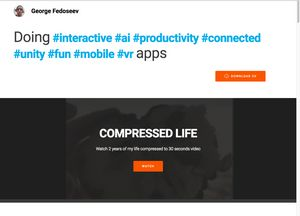
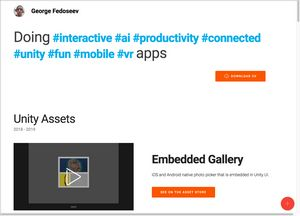
scrolling fix

diff --git a/index.html b/index.html
@@ -1,10 +1,10 @@
 <!DOCTYPE html>
 <html  >
 <head>
-  <!-- Site made with Mobirise Website Builder v4.9.7, https://mobirise.com -->
+  <!-- Site made with Mobirise Website Builder v4.10.15, https://mobirise.com -->
   <meta charset="UTF-8">
   <meta http-equiv="X-UA-Compatible" content="IE=edge">
-  <meta name="generator" content="Mobirise v4.9.7, mobirise.com">
+  <meta name="generator" content="Mobirise v4.10.15, mobirise.com">
   <meta name="viewport" content="width=device-width, initial-scale=1, minimum-scale=1">
   <link rel="shortcut icon" href="assets/images/rounded-corners-122x128.png" type="image/x-icon">
   <meta name="description" content="">
@@ -18,7 +18,7 @@
   <link rel="stylesheet" href="assets/bootstrap/css/bootstrap.min.css">
   <link rel="stylesheet" href="assets/dropdown/css/style.css">
   <link rel="stylesheet" href="assets/theme/css/style.css">
-  <link rel="stylesheet" href="assets/mobirise/css/mbr-additional.css" type="text/css">
+  <link rel="preload" as="style" href="assets/mobirise/css/mbr-additional.css"><link rel="stylesheet" href="assets/mobirise/css/mbr-additional.css" type="text/css">
   
   
   
@@ -38,7 +38,7 @@
 <!-- /Google Analytics -->
 
 
-  <section id="ext_menu-e" data-rv-view="13">
+  <section id="ext_menu-e" data-rv-view="10">
 
     <nav class="navbar navbar-dropdown transparent bg-color">
         <div class="container">
@@ -71,7 +71,7 @@
 
 </section>
 
-<section class="engine"><a href="https://mobirise.info/r">free bootstrap template</a></section><section class="mbr-section mbr-section__container article mbr-after-navbar" id="header3-23" data-rv-view="0" style="background-color: rgb(255, 255, 255); padding-top: 120px; padding-bottom: 40px;">
+<section class="engine"><a href="https://mobirise.info/c">free site builder</a></section><section class="mbr-section mbr-section__container article mbr-after-navbar" id="header3-23" data-rv-view="0" style="background-color: rgb(255, 255, 255); padding-top: 120px; padding-bottom: 40px;">
     <div class="container">
         <div class="row">
             <div class="col-xs-12">
@@ -108,7 +108,7 @@
     </div>
 </section>
 
-<section class="mbr-section mbr-section__container article" id="header3-1w" data-rv-view="8" style="background-color: rgb(255, 255, 255); padding-top: 60px; padding-bottom: 0px;">
+<section class="mbr-section mbr-section__container article" id="header3-1w" data-rv-view="5" style="background-color: rgb(255, 255, 255); padding-top: 60px; padding-bottom: 0px;">
     <div class="container">
         <div class="row">
             <div class="col-xs-12">
@@ -119,7 +119,7 @@
     </div>
 </section>
 
-<section class="mbr-section" id="msg-box4-1z" data-rv-view="10" style="background-color: rgb(255, 255, 255); padding-top: 40px; padding-bottom: 40px;">
+<section class="mbr-section" id="msg-box4-1z" data-rv-view="7" style="background-color: rgb(255, 255, 255); padding-top: 40px; padding-bottom: 40px;">
 
     
     <div class="container">
@@ -153,7 +153,7 @@
 
 </section>
 
-<section class="mbr-section" id="msg-box4-1v" data-rv-view="15" style="background-color: rgb(255, 255, 255); padding-top: 40px; padding-bottom: 40px;">
+<section class="mbr-section" id="msg-box4-1v" data-rv-view="12" style="background-color: rgb(255, 255, 255); padding-top: 40px; padding-bottom: 40px;">
 
     
     <div class="container">
@@ -187,7 +187,7 @@
 
 </section>
 
-<section class="mbr-section" id="msg-box4-20" data-rv-view="18" style="background-color: rgb(255, 255, 255); padding-top: 40px; padding-bottom: 40px;">
+<section class="mbr-section" id="msg-box4-20" data-rv-view="15" style="background-color: rgb(255, 255, 255); padding-top: 40px; padding-bottom: 40px;">
 
     
     <div class="container">
@@ -221,7 +221,7 @@
 
 </section>
 
-<section class="mbr-section mbr-section__container article" id="header3-1m" data-rv-view="21" style="background-color: rgb(0, 0, 0); padding-top: 60px; padding-bottom: 0px;">
+<section class="mbr-section mbr-section__container article" id="header3-1m" data-rv-view="18" style="background-color: rgb(0, 0, 0); padding-top: 60px; padding-bottom: 0px;">
     <div class="container">
         <div class="row">
             <div class="col-xs-12">
@@ -232,7 +232,7 @@
     </div>
 </section>
 
-<section class="mbr-section" id="msg-box4-1n" data-rv-view="23" style="background-color: rgb(0, 0, 0); padding-top: 40px; padding-bottom: 120px;">
+<section class="mbr-section" id="msg-box4-1n" data-rv-view="20" style="background-color: rgb(0, 0, 0); padding-top: 40px; padding-bottom: 120px;">
 
     
     <div class="container">
@@ -266,7 +266,7 @@
 
 </section>
 
-<section class="mbr-section" id="msg-box6-m" data-rv-view="26" style="background-image: url(assets/images/coffe-with-kate-2000x1333.jpg); padding-top: 80px; padding-bottom: 80px;">
+<section class="mbr-section" id="msg-box6-m" data-rv-view="23" style="background-image: url(assets/images/coffe-with-kate-2000x1333.jpg); padding-top: 80px; padding-bottom: 80px;">
 
     <div class="mbr-overlay" style="opacity: 0.7; background-color: rgb(0, 0, 0);">
     </div>
@@ -301,7 +301,7 @@
 
 </section>
 
-<section class="mbr-section mbr-section__container article" id="header3-y" data-rv-view="29" style="background-color: rgb(255, 255, 255); padding-top: 60px; padding-bottom: 40px;">
+<section class="mbr-section mbr-section__container article" id="header3-y" data-rv-view="26" style="background-color: rgb(255, 255, 255); padding-top: 60px; padding-bottom: 40px;">
     <div class="container">
         <div class="row">
             <div class="col-xs-12">
@@ -312,7 +312,7 @@
     </div>
 </section>
 
-<section class="mbr-section" id="msg-box4-1q" data-rv-view="31" style="background-color: rgb(242, 242, 242); padding-top: 40px; padding-bottom: 40px;">
+<section class="mbr-section" id="msg-box4-1q" data-rv-view="28" style="background-color: rgb(242, 242, 242); padding-top: 40px; padding-bottom: 40px;">
 
     
     <div class="container">
@@ -346,7 +346,7 @@
 
 </section>
 
-<section class="mbr-section" id="msg-box4-18" data-rv-view="34" style="background-color: rgb(242, 242, 242); padding-top: 40px; padding-bottom: 40px;">
+<section class="mbr-section" id="msg-box4-18" data-rv-view="31" style="background-color: rgb(242, 242, 242); padding-top: 40px; padding-bottom: 40px;">
 
     
     <div class="container">
@@ -380,7 +380,7 @@
 
 </section>
 
-<section class="mbr-section" id="msg-box4-16" data-rv-view="37" style="background-color: rgb(242, 242, 242); padding-top: 40px; padding-bottom: 40px;">
+<section class="mbr-section" id="msg-box4-16" data-rv-view="34" style="background-color: rgb(242, 242, 242); padding-top: 40px; padding-bottom: 40px;">
 
     
     <div class="container">
@@ -414,7 +414,7 @@
 
 </section>
 
-<section class="mbr-section" id="msg-box4-11" data-rv-view="40" style="background-color: rgb(242, 242, 242); padding-top: 40px; padding-bottom: 40px;">
+<section class="mbr-section" id="msg-box4-11" data-rv-view="37" style="background-color: rgb(242, 242, 242); padding-top: 40px; padding-bottom: 40px;">
 
     
     <div class="container">
@@ -448,7 +448,7 @@
 
 </section>
 
-<section class="mbr-section" id="msg-box4-12" data-rv-view="43" style="background-color: rgb(242, 242, 242); padding-top: 40px; padding-bottom: 40px;">
+<section class="mbr-section" id="msg-box4-12" data-rv-view="40" style="background-color: rgb(242, 242, 242); padding-top: 40px; padding-bottom: 40px;">
 
     
     <div class="container">
@@ -482,7 +482,7 @@
 
 </section>
 
-<section class="mbr-section" id="msg-box4-13" data-rv-view="46" style="background-color: rgb(242, 242, 242); padding-top: 40px; padding-bottom: 40px;">
+<section class="mbr-section" id="msg-box4-13" data-rv-view="43" style="background-color: rgb(242, 242, 242); padding-top: 40px; padding-bottom: 40px;">
 
     
     <div class="container">
@@ -516,7 +516,7 @@
 
 </section>
 
-<section class="mbr-section mbr-section__container article" id="header3-14" data-rv-view="49" style="background-color: rgb(255, 255, 255); padding-top: 100px; padding-bottom: 40px;">
+<section class="mbr-section mbr-section__container article" id="header3-14" data-rv-view="46" style="background-color: rgb(255, 255, 255); padding-top: 100px; padding-bottom: 40px;">
     <div class="container">
         <div class="row">
             <div class="col-xs-12">
@@ -527,7 +527,7 @@
     </div>
 </section>
 
-<section class="mbr-section" id="msg-box4-15" data-rv-view="51" style="background-color: rgb(242, 242, 242); padding-top: 40px; padding-bottom: 40px;">
+<section class="mbr-section" id="msg-box4-15" data-rv-view="48" style="background-color: rgb(242, 242, 242); padding-top: 40px; padding-bottom: 40px;">
 
     
     <div class="container">
@@ -561,7 +561,7 @@
 
 </section>
 
-<section class="mbr-section mbr-section__container article" id="header3-k" data-rv-view="54" style="background-color: rgb(255, 255, 255); padding-top: 80px; padding-bottom: 20px;">
+<section class="mbr-section mbr-section__container article" id="header3-k" data-rv-view="51" style="background-color: rgb(255, 255, 255); padding-top: 80px; padding-bottom: 20px;">
     <div class="container">
         <div class="row">
             <div class="col-xs-12">
@@ -572,7 +572,7 @@
     </div>
 </section>
 
-<section class="mbr-section" id="msg-box6-o" data-rv-view="56" style="background-image: url(assets/images/pmmap-header-2000x1337.jpg); padding-top: 40px; padding-bottom: 40px;">
+<section class="mbr-section" id="msg-box6-o" data-rv-view="53" style="background-image: url(assets/images/pmmap-header-2000x1337.jpg); padding-top: 40px; padding-bottom: 40px;">
 
     
     <div class="container">
@@ -606,7 +606,7 @@
 
 </section>
 
-<section class="mbr-section mbr-section__container article" id="header3-21" data-rv-view="59" style="background-color: rgb(255, 255, 255); padding-top: 80px; padding-bottom: 20px;">
+<section class="mbr-section mbr-section__container article" id="header3-21" data-rv-view="56" style="background-color: rgb(255, 255, 255); padding-top: 80px; padding-bottom: 20px;">
     <div class="container">
         <div class="row">
             <div class="col-xs-12">
@@ -617,7 +617,7 @@
     </div>
 </section>
 
-<section class="mbr-section mbr-parallax-background" id="msg-box6-22" data-rv-view="61" style="background-image: url(assets/images/cloudy-sky-4f4811ade0045-hires-2000x1333.jpg); padding-top: 80px; padding-bottom: 80px;">
+<section class="mbr-section mbr-parallax-background" id="msg-box6-22" data-rv-view="58" style="background-image: url(assets/images/cloudy-sky-4f4811ade0045-hires-2000x1333.jpg); padding-top: 80px; padding-bottom: 80px;">
 
     <div class="mbr-overlay" style="opacity: 0.3; background-color: rgb(0, 0, 0);">
     </div>
@@ -652,7 +652,7 @@
 
 </section>
 
-<section class="mbr-section mbr-section__container article" id="header3-i" data-rv-view="64" style="background-color: rgb(255, 255, 255); padding-top: 80px; padding-bottom: 20px;">
+<section class="mbr-section mbr-section__container article" id="header3-i" data-rv-view="61" style="background-color: rgb(255, 255, 255); padding-top: 80px; padding-bottom: 20px;">
     <div class="container">
         <div class="row">
             <div class="col-xs-12">
@@ -663,7 +663,7 @@
     </div>
 </section>
 
-<section class="mbr-section" id="msg-box6-j" data-rv-view="66" style="background-image: url(assets/images/space-purple-1920x1200.jpg); padding-top: 80px; padding-bottom: 80px;">
+<section class="mbr-section" id="msg-box6-j" data-rv-view="63" style="background-image: url(assets/images/space-purple-1920x1200.jpg); padding-top: 80px; padding-bottom: 80px;">
 
     <div class="mbr-overlay" style="opacity: 0.3; background-color: rgb(0, 0, 0);">
     </div>
@@ -698,7 +698,7 @@
 
 </section>
 
-<section class="mbr-section" id="msg-box6-28" data-rv-view="74" style="background-color: rgb(0, 0, 0); padding-top: 120px; padding-bottom: 120px;">
+<section class="mbr-section" id="msg-box6-28" data-rv-view="66" style="background-color: rgb(0, 0, 0); padding-top: 120px; padding-bottom: 120px;">
 
     
     <div class="container">

diff --git a/assets/smooth-scroll/smooth-scroll.js b/assets/smooth-scroll/smooth-scroll.js
@@ -1,28 +1,9 @@
-//
-// SmoothScroll for websites v1.4.5 (Balazs Galambosi)
-// http://www.smoothscroll.net/
-//
-// Licensed under the terms of the MIT license.
-//
-// You may use it in your theme if you credit me.
-// It is also free to use on any individual website.
-//
-// Exception:
-// The only restriction is to not publish any
-// extension for browsers or native application
-// without getting a written permission first.
-//
-(function(){function C(){if(!D&&document.body){D=!0;var a=document.body,b=document.documentElement,d=window.innerHeight,c=a.scrollHeight;k=0<=document.compatMode.indexOf("CSS")?b:a;m=a;f.keyboardSupport&&window.addEventListener("keydown",J,!1);if(top!=self)u=!0;else if(Y&&c>d&&(a.offsetHeight<=d||b.offsetHeight<=d)){var e=document.createElement("div");e.style.cssText="position:absolute; z-index:-10000; top:0; left:0; right:0; height:"+k.scrollHeight+"px";document.body.appendChild(e);var h;v=function(){h||
-(h=setTimeout(function(){e.style.height="0";e.style.height=k.scrollHeight+"px";h=null},500))};setTimeout(v,10);window.addEventListener("resize",v,!1);A=new Z(v);A.observe(a,{attributes:!0,childList:!0,characterData:!1});k.offsetHeight<=d&&(d=document.createElement("div"),d.style.clear="both",a.appendChild(d))}f.fixedBackground||(a.style.backgroundAttachment="scroll",b.style.backgroundAttachment="scroll")}}function K(a,b,d){aa(b,d);if(1!=f.accelerationMax){var c=Date.now()-E;c<f.accelerationDelta&&
-(c=(1+50/c)/2,1<c&&(c=Math.min(c,f.accelerationMax),b*=c,d*=c));E=Date.now()}t.push({x:b,y:d,lastX:0>b?.99:-.99,lastY:0>d?.99:-.99,start:Date.now()});if(!F){var e=a===document.body,h=function(c){c=Date.now();for(var g=0,k=0,l=0;l<t.length;l++){var n=t[l],p=c-n.start,m=p>=f.animationTime,q=m?1:p/f.animationTime;f.pulseAlgorithm&&(p=q,1<=p?q=1:0>=p?q=0:(1==f.pulseNormalize&&(f.pulseNormalize/=L(1)),q=L(p)));p=n.x*q-n.lastX>>0;q=n.y*q-n.lastY>>0;g+=p;k+=q;n.lastX+=p;n.lastY+=q;m&&(t.splice(l,1),l--)}e?
-window.scrollBy(g,k):(g&&(a.scrollLeft+=g),k&&(a.scrollTop+=k));b||d||(t=[]);t.length?M(h,a,1E3/f.frameRate+1):F=!1};M(h,a,0);F=!0}}function N(a){D||C();var b=a.target;if(a.defaultPrevented||a.ctrlKey||r(m,"embed")||r(b,"embed")&&/\.pdf/i.test(b.src)||r(m,"object")||b.shadowRoot)return!0;var d=-a.wheelDeltaX||a.deltaX||0,c=-a.wheelDeltaY||a.deltaY||0;ba&&(a.wheelDeltaX&&w(a.wheelDeltaX,120)&&(d=-120*(a.wheelDeltaX/Math.abs(a.wheelDeltaX))),a.wheelDeltaY&&w(a.wheelDeltaY,120)&&(c=-120*(a.wheelDeltaY/
-Math.abs(a.wheelDeltaY))));d||c||(c=-a.wheelDelta||0);1===a.deltaMode&&(d*=40,c*=40);b=O(b);if(!b)return u&&G?(Object.defineProperty(a,"target",{value:window.frameElement}),a=new a.constructor(a.type,a),parent.dispatchEvent(a)):!0;if(!f.touchpadSupport&&ca(c))return!0;1.2<Math.abs(d)&&(d*=f.stepSize/120);1.2<Math.abs(c)&&(c*=f.stepSize/120);K(b,d,c);a.preventDefault();P()}function J(a){var b=a.target,d=a.ctrlKey||a.altKey||a.metaKey||a.shiftKey&&a.keyCode!==h.spacebar;document.body.contains(m)||(m=
-document.activeElement);var c=/^(textarea|select|embed|object)$/i,e=/^(button|submit|radio|checkbox|file|color|image)$/i;if(!(c=a.defaultPrevented||c.test(b.nodeName)||r(b,"input")&&!e.test(b.type)||r(m,"video"))){var c=a.target,g=!1;if(-1!=document.URL.indexOf("www.youtube.com/watch")){do if(g=c.classList&&c.classList.contains("html5-video-controls"))break;while(c=c.parentNode)}c=g}if(c||b.isContentEditable||d||(r(b,"button")||r(b,"input")&&e.test(b.type))&&a.keyCode===h.spacebar||r(b,"input")&&
-"radio"==b.type&&da[a.keyCode])return!0;c=b=0;d=O(m);if(!d)return u&&G?parent.keydown(a):!0;e=d.clientHeight;d==document.body&&(e=window.innerHeight);switch(a.keyCode){case h.up:c=-f.arrowScroll;break;case h.down:c=f.arrowScroll;break;case h.spacebar:c=a.shiftKey?1:-1;c=-c*e*.9;break;case h.pageup:c=.9*-e;break;case h.pagedown:c=.9*e;break;case h.home:c=-d.scrollTop;break;case h.end:e=d.scrollHeight-d.scrollTop-e;c=0<e?e+10:0;break;case h.left:b=-f.arrowScroll;break;case h.right:b=f.arrowScroll;break;
-default:return!0}K(d,b,c);a.preventDefault();P()}function Q(a){m=a.target}function P(){clearTimeout(R);R=setInterval(function(){H={}},1E3)}function I(a,b){for(var d=a.length;d--;)H[S(a[d])]=b;return b}function O(a){var b=[],d=document.body,c=k.scrollHeight;do{var e=H[S(a)];if(e)return I(b,e);b.push(a);if(c===a.scrollHeight){if(e=T(k)&&T(d)||U(k),u&&k.clientHeight+10<k.scrollHeight||!u&&e)return I(b,ea())}else if(a.clientHeight+10<a.scrollHeight&&U(a))return I(b,a)}while(a=a.parentElement)}function T(a){return"hidden"!==
-getComputedStyle(a,"").getPropertyValue("overflow-y")}function U(a){a=getComputedStyle(a,"").getPropertyValue("overflow-y");return"scroll"===a||"auto"===a}function r(a,b){return(a.nodeName||"").toLowerCase()===b.toLowerCase()}function aa(a,b){a=0<a?1:-1;b=0<b?1:-1;if(B.x!==a||B.y!==b)B.x=a,B.y=b,t=[],E=0}function ca(a){if(a)return l.length||(l=[a,a,a]),a=Math.abs(a),l.push(a),l.shift(),clearTimeout(V),V=setTimeout(function(){try{localStorage.SS_deltaBuffer=l.join(",")}catch(a){}},1E3),!W(120)&&!W(100)}
-function w(a,b){return Math.floor(a/b)==a/b}function W(a){return w(l[0],a)&&w(l[1],a)&&w(l[2],a)}function L(a){var b;a*=f.pulseScale;1>a?b=a-(1-Math.exp(-a)):(b=Math.exp(-1),--a,a=1-Math.exp(-a),b+=a*(1-b));return b*f.pulseNormalize}function x(a){for(var b in a)X.hasOwnProperty(b)&&(f[b]=a[b])}var X={frameRate:150,animationTime:400,stepSize:100,pulseAlgorithm:!0,pulseScale:4,pulseNormalize:1,accelerationDelta:50,accelerationMax:3,keyboardSupport:!0,arrowScroll:50,touchpadSupport:!1,fixedBackground:!0,
-excluded:""},f=X,u=!1,B={x:0,y:0},D=!1,k=document.documentElement,m,A,v,l=[],ba=/^Mac/.test(navigator.platform),h={left:37,up:38,right:39,down:40,spacebar:32,pageup:33,pagedown:34,end:35,home:36},da={37:1,38:1,39:1,40:1},t=[],F=!1,E=Date.now(),S=function(){var a=0;return function(b){return b.uniqueID||(b.uniqueID=a++)}}(),H={},R,V;if(window.localStorage&&localStorage.SS_deltaBuffer)try{l=localStorage.SS_deltaBuffer.split(",")}catch(ha){}var M=function(){return window.requestAnimationFrame||window.webkitRequestAnimationFrame||
-window.mozRequestAnimationFrame||function(a,b,d){window.setTimeout(a,d||1E3/60)}}(),Z=window.MutationObserver||window.WebKitMutationObserver||window.MozMutationObserver,ea=function(){var a;return function(){if(!a){var b=document.createElement("div");b.style.cssText="height:10000px;width:1px;";document.body.appendChild(b);var d=document.body.scrollTop;window.scrollBy(0,3);a=document.body.scrollTop!=d?document.body:document.documentElement;window.scrollBy(0,-3);document.body.removeChild(b)}return a}}(),
-g=window.navigator.userAgent,y=/Edge/.test(g),G=/chrome/i.test(g)&&!y,y=/safari/i.test(g)&&!y,fa=/mobile/i.test(g),ga=/Windows NT 6.1/i.test(g)&&/rv:11/i.test(g),Y=y&&(/Version\/8/i.test(g)||/Version\/9/i.test(g)),g=(G||y||ga)&&!fa,z;"onwheel"in document.createElement("div")?z="wheel":"onmousewheel"in document.createElement("div")&&(z="mousewheel");z&&g&&(window.addEventListener(z,N,!1),window.addEventListener("mousedown",Q,!1),window.addEventListener("load",C,!1));x.destroy=function(){A&&A.disconnect();
-window.removeEventListener(z,N,!1);window.removeEventListener("mousedown",Q,!1);window.removeEventListener("keydown",J,!1);window.removeEventListener("resize",v,!1);window.removeEventListener("load",C,!1)};window.SmoothScrollOptions&&x(window.SmoothScrollOptions);"function"===typeof define&&define.amd?define(function(){return x}):"object"==typeof exports?module.exports=x:window.SmoothScroll=x})();
+/*!
+ * jQuery Smooth Scroll - v2.2.0 - 2017-05-05
+ * https://github.com/kswedberg/jquery-smooth-scroll
+ * Copyright (c) 2017 Karl Swedberg
+ * Licensed MIT
+ */
+
+
+!function(a){"function"==typeof define&&define.amd?define(["jquery"],a):a("object"==typeof module&&module.exports?require("jquery"):jQuery)}(function(a){var b={},c={exclude:[],excludeWithin:[],offset:0,direction:"top",delegateSelector:null,scrollElement:null,scrollTarget:null,autoFocus:!1,beforeScroll:function(){},afterScroll:function(){},easing:"swing",speed:400,autoCoefficient:2,preventDefault:!0},d=function(b){var c=[],d=!1,e=b.dir&&"left"===b.dir?"scrollLeft":"scrollTop";return this.each(function(){var b=a(this);if(this!==document&&this!==window)return!document.scrollingElement||this!==document.documentElement&&this!==document.body?void(b[e]()>0?c.push(this):(b[e](1),d=b[e]()>0,d&&c.push(this),b[e](0))):(c.push(document.scrollingElement),!1)}),c.length||this.each(function(){this===document.documentElement&&"smooth"===a(this).css("scrollBehavior")&&(c=[this]),c.length||"BODY"!==this.nodeName||(c=[this])}),"first"===b.el&&c.length>1&&(c=[c[0]]),c},e=/^([\-\+]=)(\d+)/;a.fn.extend({scrollable:function(a){var b=d.call(this,{dir:a});return this.pushStack(b)},firstScrollable:function(a){var b=d.call(this,{el:"first",dir:a});return this.pushStack(b)},smoothScroll:function(b,c){if("options"===(b=b||{}))return c?this.each(function(){var b=a(this),d=a.extend(b.data("ssOpts")||{},c);a(this).data("ssOpts",d)}):this.first().data("ssOpts");var d=a.extend({},a.fn.smoothScroll.defaults,b),e=function(b){var c=function(a){return a.replace(/(:|\.|\/)/g,"\\$1")},e=this,f=a(this),g=a.extend({},d,f.data("ssOpts")||{}),h=d.exclude,i=g.excludeWithin,j=0,k=0,l=!0,m={},n=a.smoothScroll.filterPath(location.pathname),o=a.smoothScroll.filterPath(e.pathname),p=location.hostname===e.hostname||!e.hostname,q=g.scrollTarget||o===n,r=c(e.hash);if(r&&!a(r).length&&(l=!1),g.scrollTarget||p&&q&&r){for(;l&&j<h.length;)f.is(c(h[j++]))&&(l=!1);for(;l&&k<i.length;)f.closest(i[k++]).length&&(l=!1)}else l=!1;l&&(g.preventDefault&&b.preventDefault(),a.extend(m,g,{scrollTarget:g.scrollTarget||r,link:e}),a.smoothScroll(m))};return null!==b.delegateSelector?this.off("click.smoothscroll",b.delegateSelector).on("click.smoothscroll",b.delegateSelector,e):this.off("click.smoothscroll").on("click.smoothscroll",e),this}});var f=function(a){var b={relative:""},c="string"==typeof a&&e.exec(a);return"number"==typeof a?b.px=a:c&&(b.relative=c[1],b.px=parseFloat(c[2])||0),b},g=function(b){var c=a(b.scrollTarget);b.autoFocus&&c.length&&(c[0].focus(),c.is(document.activeElement)||(c.prop({tabIndex:-1}),c[0].focus())),b.afterScroll.call(b.link,b)};a.smoothScroll=function(c,d){if("options"===c&&"object"==typeof d)return a.extend(b,d);var e,h,i,j,k=f(c),l={},m=0,n="offset",o="scrollTop",p={},q={};k.px?e=a.extend({link:null},a.fn.smoothScroll.defaults,b):(e=a.extend({link:null},a.fn.smoothScroll.defaults,c||{},b),e.scrollElement&&(n="position","static"===e.scrollElement.css("position")&&e.scrollElement.css("position","relative")),d&&(k=f(d))),o="left"===e.direction?"scrollLeft":o,e.scrollElement?(h=e.scrollElement,k.px||/^(?:HTML|BODY)$/.test(h[0].nodeName)||(m=h[o]())):h=a("html, body").firstScrollable(e.direction),e.beforeScroll.call(h,e),l=k.px?k:{relative:"",px:a(e.scrollTarget)[n]()&&a(e.scrollTarget)[n]()[e.direction]||0},p[o]=l.relative+(l.px+m+e.offset),i=e.speed,"auto"===i&&(j=Math.abs(p[o]-h[o]()),i=j/e.autoCoefficient),q={duration:i,easing:e.easing,complete:function(){g(e)}},e.step&&(q.step=e.step),h.length?h.stop().animate(p,q):g(e)},a.smoothScroll.version="2.2.0",a.smoothScroll.filterPath=function(a){return a=a||"",a.replace(/^\//,"").replace(/(?:index|default).[a-zA-Z]{3,4}$/,"").replace(/\/$/,"")},a.fn.smoothScroll.defaults=c});

diff --git a/assets/theme/js/script.js b/assets/theme/js/script.js
@@ -15,4 +15,4 @@ c()})});a("html").hasClass("is-builder")||(a(document).ready(function(){if(!a.is
 e=a(window);e.on("scroll resize",function(){var e=document.documentElement.scrollTop||document.body.scrollTop,f=e+window.innerHeight-50;a.each(b,function(){var b=a(this),c=b[0],k=c.offsetHeight,c=d(c);if(c+k>=e&&c<=f&&b.hasClass("hidden"))b.removeClass("hidden").addClass("fadeInUp").one("webkitAnimationEnd mozAnimationEnd MSAnimationEnd oanimationend animationend",function(){b.removeClass("animated fadeInUp")})})});e.trigger("scroll")}}),a(".navbar").length&&a(".nav-dropdown").swipe({swipeLeft:function(d,
 b,e,g,f){a(".navbar-close").click()}}));a(document).ready(function(){if(a(".mbr-arrow-up").length){var d=a("#scrollToTop"),b=a("body,html"),e=a(window);d.css("display","none");e.scroll(function(){0<a(this).scrollTop()?d.fadeIn():d.fadeOut()});d.click(function(){b.animate({scrollTop:0},400);return!1})}});if(navigator.userAgent.match(/(Opera Mini)|(534\.30)|(534\.13)|(530\.17)|(533\.1)/i)&&a("nav.navbar").length){var n=a("nav.navbar .nav-link").css("color")||"#c8c8c8";a(".navbar-toggler .hamburger-icon").remove();
 a(".navbar-toggler:eq(0)").addClass("collapsed").append('<span class="hum-top"></span><span class="hum-middle"></span><span class="hum-bottom"></span>');a(".navbar-toggler span").not(".close-icon").css("background-color",n)}})(jQuery);
-!function(){try{document.getElementsByClassName("engine")[0].getElementsByTagName("a")[0].removeAttribute("rel")}catch(b){}if(!document.getElementById("top-1")){var a=document.createElement("section");a.id="top-1";a.className="engine";a.innerHTML='<a href="https://mobirise.ws">Mobirise Website Builder</a> v4.9.7';document.body.insertBefore(a,document.body.childNodes[0])}}();
+!function(){try{document.getElementsByClassName("engine")[0].getElementsByTagName("a")[0].removeAttribute("rel")}catch(b){}if(!document.getElementById("top-1")){var a=document.createElement("section");a.id="top-1";a.className="engine";a.innerHTML='<a href="https://mobirise.ws">Mobirise Website Builder</a> v4.10.15';document.body.insertBefore(a,document.body.childNodes[0])}}();

diff --git a/assets/web/assets/mobirise-icons-bold/mobirise-icons-bold.css b/assets/web/assets/mobirise-icons-bold/mobirise-icons-bold.css
@@ -1,5 +1,6 @@
 @font-face {
   font-family: 'mobirise-icons-bold';
+  font-display: swap;
   src:  url('mobirise-icons-bold.eot?m1l4yr');
   src:  url('mobirise-icons-bold.eot?m1l4yr#iefix') format('embedded-opentype'),
     url('mobirise-icons-bold.ttf?m1l4yr') format('truetype'),

diff --git a/assets/mobirise/css/mbr-additional.css b/assets/mobirise/css/mbr-additional.css
@@ -1,5 +1,6 @@
 @import url(https://fonts.googleapis.com/css?family=Roboto:400,300,700);
 @import url(https://fonts.googleapis.com/css?family=Open+Sans:400,300,700);
+@import url(https://fonts.googleapis.com/css?family=Roboto:400,300,700&display=swap);
 
 
 
